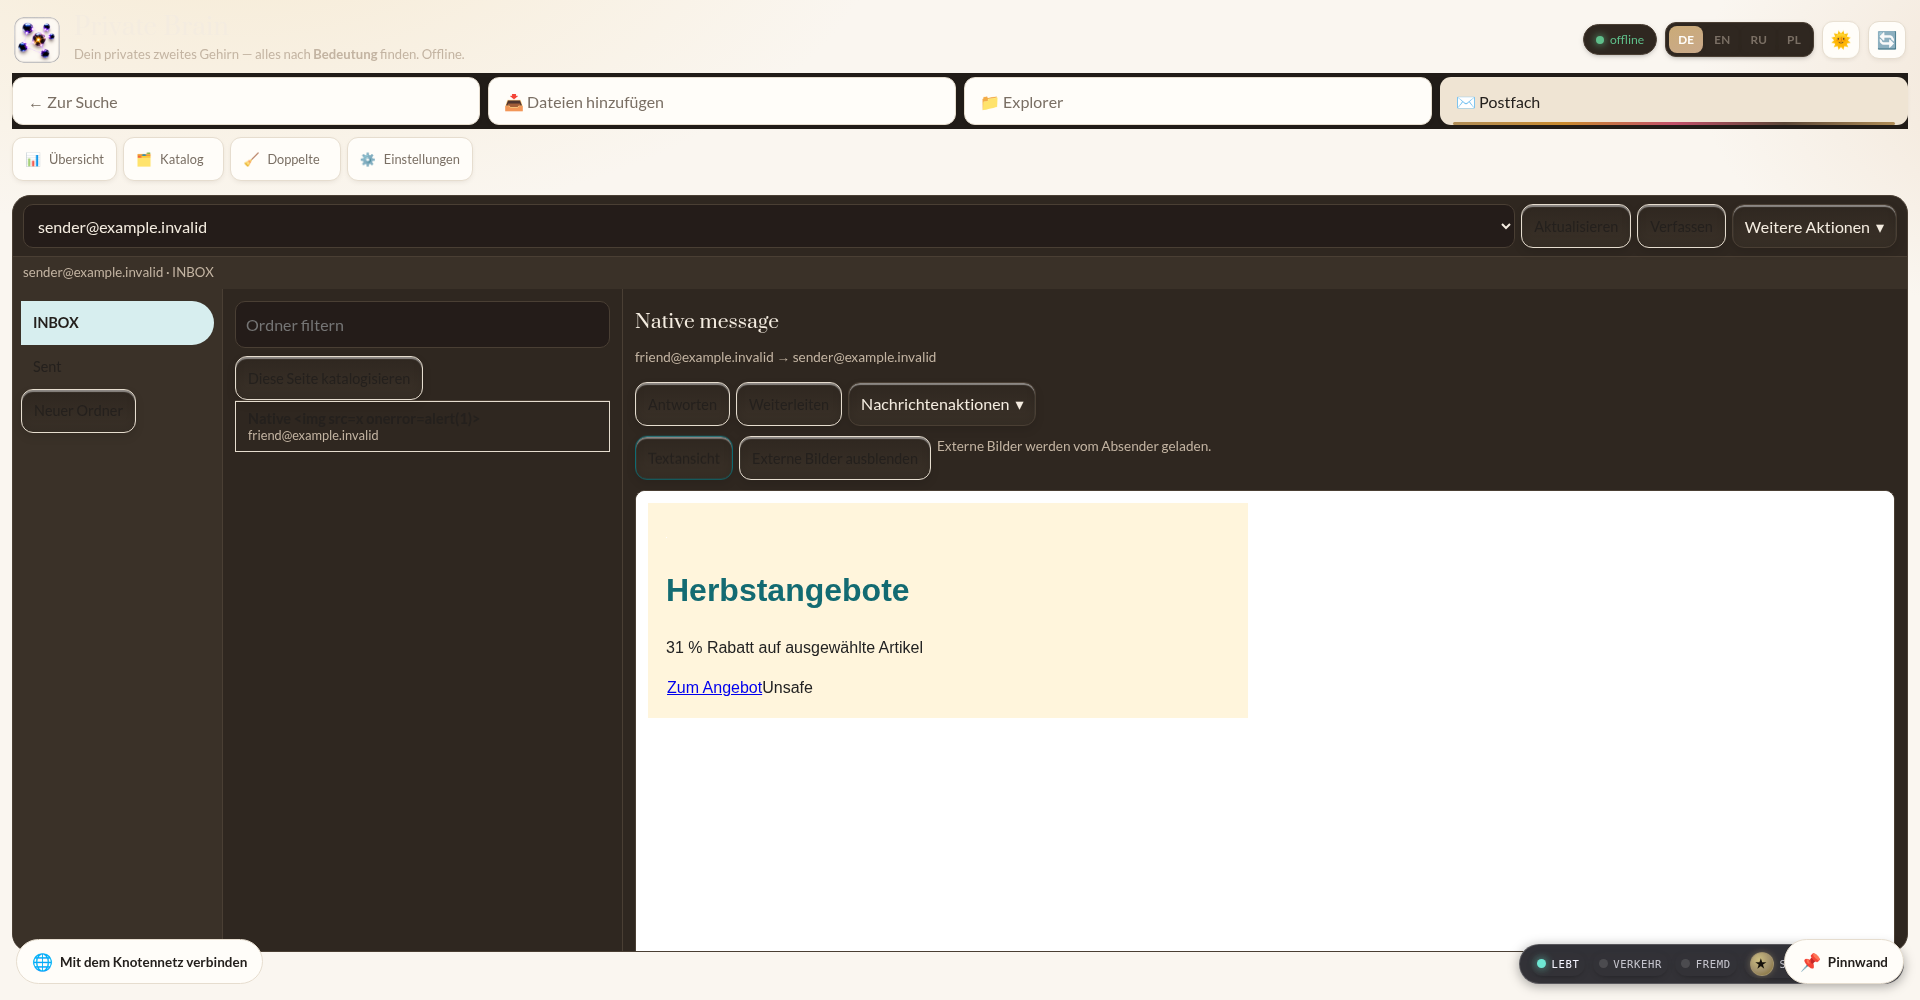
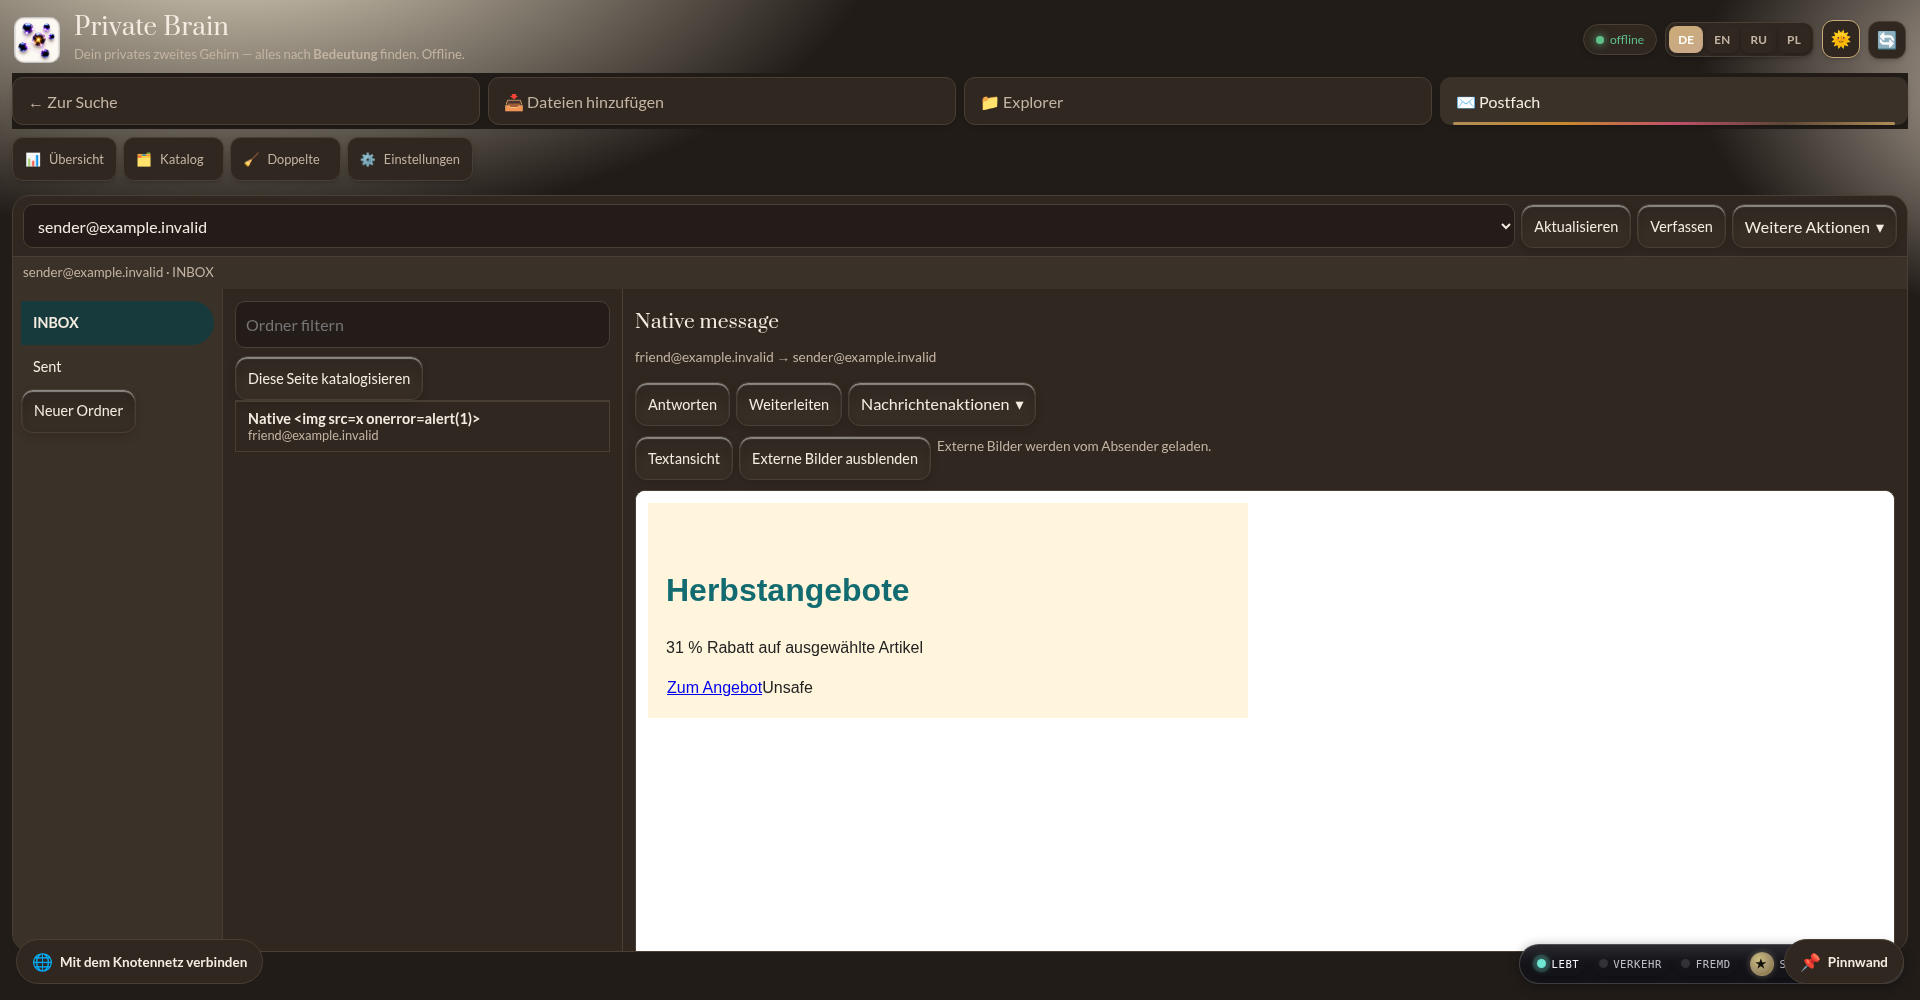
Prüfnachweise für Vorschau 5 und ruhige Dunkelaufnahmen ergänzen

Changed region(s): [[0.0, 0.0, 1.0, 1.0], [0.3438, 0.403, 0.4688, 0.465], [0.125, 0.372, 0.25, 0.434]]

diff --git a/docs/PRUEFSTAND-ANDROID.md b/docs/PRUEFSTAND-ANDROID.md
@@ -173,3 +173,44 @@ Konten-/Keystoreformat und Paketkennung bleiben unverändert, VersionCode steigt
 auf 5. Über die vorhandene Test-App installieren; nicht deinstallieren.
 Die neue HTML-Darstellung und gespeicherte Telekom-Konten beim Update sind
 zusätzlich auf dem Nutzergerät zu kontrollieren.
+
+
+### Ausgeführte Prüfungen für .5
+
+Vollständiger [CI-Lauf 39331444809](https://github.com/lausiklauskn-png/Privat-Brain-Pro/actions/runs/39331444809)
+erfolgreich, geprüfter HEAD `f327154c8d8e78214858bc131c85097053500828`:
+38 bestehende npm-Prüfbefehle, 57 native Webprüfungen, 48 Mail-Oberflächenproben,
+14 Maildiensttests, Java-Tests, Android-Build/Lint und **10 Android-Tests ohne
+Fehler oder übersprungene Fälle**. Darunter die echte Standard-WebView-Grenze
+mit absichtlich nach der Bereinigung eingesetztem Skript sowie unveränderte
+Original-MIME-Bytes mit HTML, Alternative-Text, CID-PNG und Binäranhang.
+21 geschützte Module weiterhin bytegleich. Vorschau-Lint: 0 Fehler, 7 Warnungen.
+
+PR #5 zusammengeführt: `3ce818c0c4f02813ec925b665d55a3743af051b0`, exakt
+Git-Baum `eec1b8cc8a2f91cd366f52e681e98c7c4a1b89ef` wie der geprüfte HEAD.
+Auch der parallele [Push-Lauf 39331439488](https://github.com/lausiklauskn-png/Privat-Brain-Pro/actions/runs/39331439488)
+bestand. Sein erster Emulatorversuch brach beim Download des Systemimage-ZIP ab,
+bevor die App gestartet wurde; die Wiederholung desselben Quellstands bestand.
+Keine App- oder TLS-Prüfung wurde dafür abgeschwächt.
+
+Signierte Vorschau: Paket `de.familyprojekt.privatebrain.pro.preview`, VersionCode 5,
+VersionName `0.1.0-preview.5-test`, API 24+, Ziel 36, kein Debug-Flag. Zertifikat
[2 lines of base64/hex data omitted]
+Unveränderte Bibliotheks-LICENSE/NOTICE und aktuelle Laufzeitdateien im APK geprüft;
+keine Schlüssel, Dienst-Daten oder Design-Testdateien im Webpaket.
+
+
+Veröffentlicht: [Vorschau .5](https://github.com/lausiklauskn-png/Privat-Brain-Pro/releases/tag/v0.1.0-preview.5).
+[Signierte Updateprobe und Upload 39332888607](https://github.com/lausiklauskn-png/Privat-Brain-Pro/actions/runs/39332888607)
+erfolgreich: unveränderte .4-APK installiert, Englisch gewählt, .5 mit `adb install -r`
+darüber installiert, Englisch erhalten, App gestartet und echten nativen Kontodialog
+geöffnet/abgebrochen. Keine echten Kontozugangsdaten und kein SMTP-Versand in dieser
+Probe. Konten-, Dokument- und Samsung-spezifische Migrationsproben daraus nicht ableiten.
+Direkter öffentlicher APK-Download am 2026-10-19 mit HTTP 200 geprüft: 4 973 154 Bytes,
+identischer SHA256 und bytegleich zur lokal geprüften, signierten Datei.
+
+Die abschließende Dokumentationsänderung ergänzt Prüfnachweise und wartet bei
+Bildaufnahmen auf den vorhandenen Theme-Übergang. Keine Laufzeitdatei der APK wird
+geändert; 48 Mail-Oberflächenproben einschließlich neuer Aufnahmen erneut bestanden.
+Die unabhängige PWA bleibt auf `0ac93cd845a93cb67b37b0f4c60726eaed9ed492` sauber.

diff --git a/CLAUDE.md b/CLAUDE.md
@@ -329,7 +329,7 @@ Prüfgrenzen: `docs/NATIVE-MAIL-ARCHITEKTUR.md`, `docs/PRUEFSTAND-ANDROID.md`.
 PR #3 ist zusammengeführt, App-Quellstand a3f6051d8946c411449936bf59a1c86e12435fdc.
 Test-APK v0.1.0-preview.4 ist öffentlich; kein Dienst-Token/Termux für native Mail.
 Vollständige CI 39323175775 und signierte Updateprobe 39324803227 bestanden.
-Tatsächliche Anbieteranmeldung auf dem Nutzergerät bleibt offen. Details und
+Telekom-Anmeldung und Abruf sind inzwischen vom Nutzer bestätigt. Details und
 Prüfsumme: `docs/PRUEFSTAND-ANDROID.md`. Vorschau-Schlüssel außerhalb von Git;
 Langzeitbackup/Produktion weiterhin gesondert absichern, keine Geheimnisse erfragen.
 
@@ -345,3 +345,14 @@ Das native Fensterlayout füllt alle Seiten ohne 1040-px-Grenze. Postfach und
 Explorer besitzen scrollbare Bereiche wie Sende-Pruefer; OS-Fensterknöpfe bleiben.
 Kontowerkzeuge im Menü „Weitere Aktionen“, rechtliche Fußtexte in Einstellungen.
 Schutzmodule/Original-PWA unverändert. Prüfnachweise: docs/design/mail-preview5/.
+
+
+## Veröffentlicht: Vorschau .5
+
+Signierte Originalansicht-/Fensterlayout-APK v0.1.0-preview.5 ist öffentlich.
+Quellstand 3ce818c0c4f02813ec925b665d55a3743af051b0, derselbe Git-Baum wie
+vollständig geprüfter f327154c8d8e78214858bc131c85097053500828. CI 39331444809:
+10 Android-Fälle ohne Fehler/Überspringen. Signierte .4→.5-Updateprobe und Upload
+39332888607 erfolgreich; direkter Download HTTP 200 und SHA256 geprüft.
+Bestehende App aktualisieren, nicht deinstallieren. Echter Telekom-Abruf bestätigt;
+neue HTML-Ansicht und Update mit gespeicherten Konten durch Nutzer noch prüfen.

diff --git a/docs/design/mail-preview5/README.md b/docs/design/mail-preview5/README.md
@@ -27,4 +27,7 @@ getrennte Postfachbereiche im breiten Fenster, erreichbare Nachricht im schmalen
 Fenster, ursprüngliche Tabellenfarbe/Schriftfarbe, CID-Auflösung, externe Bilder
 abschaltbar, keine aktiven Mail-Ressourcen und kein Skript-/App-Ursprungszugriff.
 `PB_CAPTURE_DESIGN=1 npm run test:native-web` erzeugt die Aufnahmen neu.
+Die Aufnahmen warten auf das Ende des bestehenden Theme-Übergangs; sonst
+entsteht im Dunkelbild eine irreführende Mischung aus alten und neuen Farben.
+Zusätzlich bestanden dieselben Bedienproben mit nur 640 Pixeln Fensterhöhe.
 Tablet/DeX-Sichttest der fertigen APK durch den Nutzer folgt.

diff --git a/docs/NATIVE-MAIL-ARCHITEKTUR.md b/docs/NATIVE-MAIL-ARCHITEKTUR.md
@@ -1,6 +1,6 @@
 # Direkte Mailanbindung auf Android
 
-Stand 2026-10-19, veröffentlicht in Vorschau 0.1.0-preview.4. Die ältere
+Stand 2026-10-19: direkte Mail seit Vorschau .4, Originalansicht und Fensterlayout in .5. Die ältere
 Vorschau .2 verwendet noch den privaten HTTPS-Maildienst.
 Der Nutzer hat direkte Telekom-Anmeldung und Nachrichtenabruf auf seinem Tablet
 bestätigt. Hetzner und tatsächlicher Versand/Anhangsaustausch bleiben gesondert zu prüfen.
